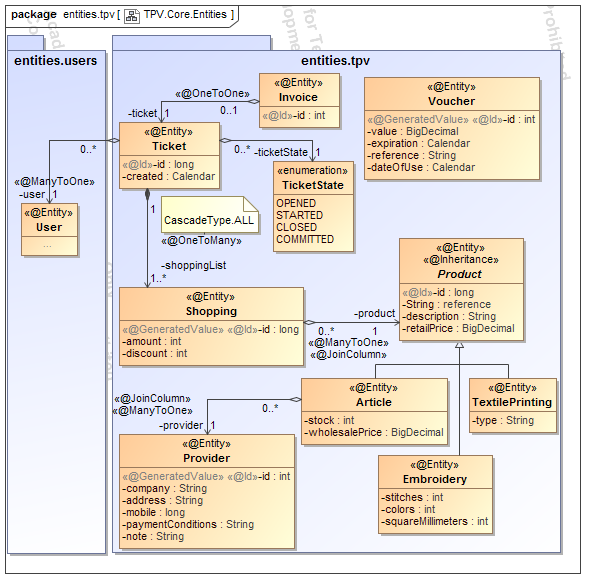
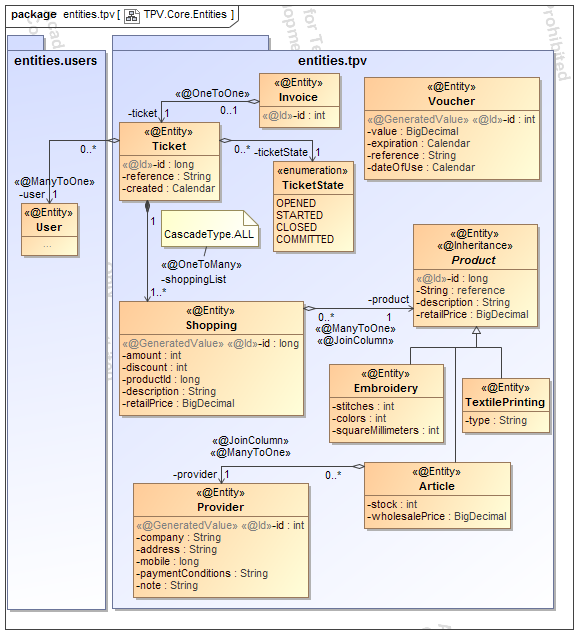
Refactoring Ticket & docs

diff --git a/src/main/java/entities/core/Ticket.java b/src/main/java/entities/core/Ticket.java
@@ -7,6 +7,7 @@ import java.util.Date;
 import java.util.List;
 
 import javax.persistence.CascadeType;
+import javax.persistence.Column;
 import javax.persistence.Entity;
 import javax.persistence.EnumType;
 import javax.persistence.Enumerated;
@@ -26,6 +27,7 @@ public class Ticket {
 
     private Calendar created;
 
+    @Column(unique = true, nullable = false)
     private String reference;
 
     @Enumerated(EnumType.STRING)
